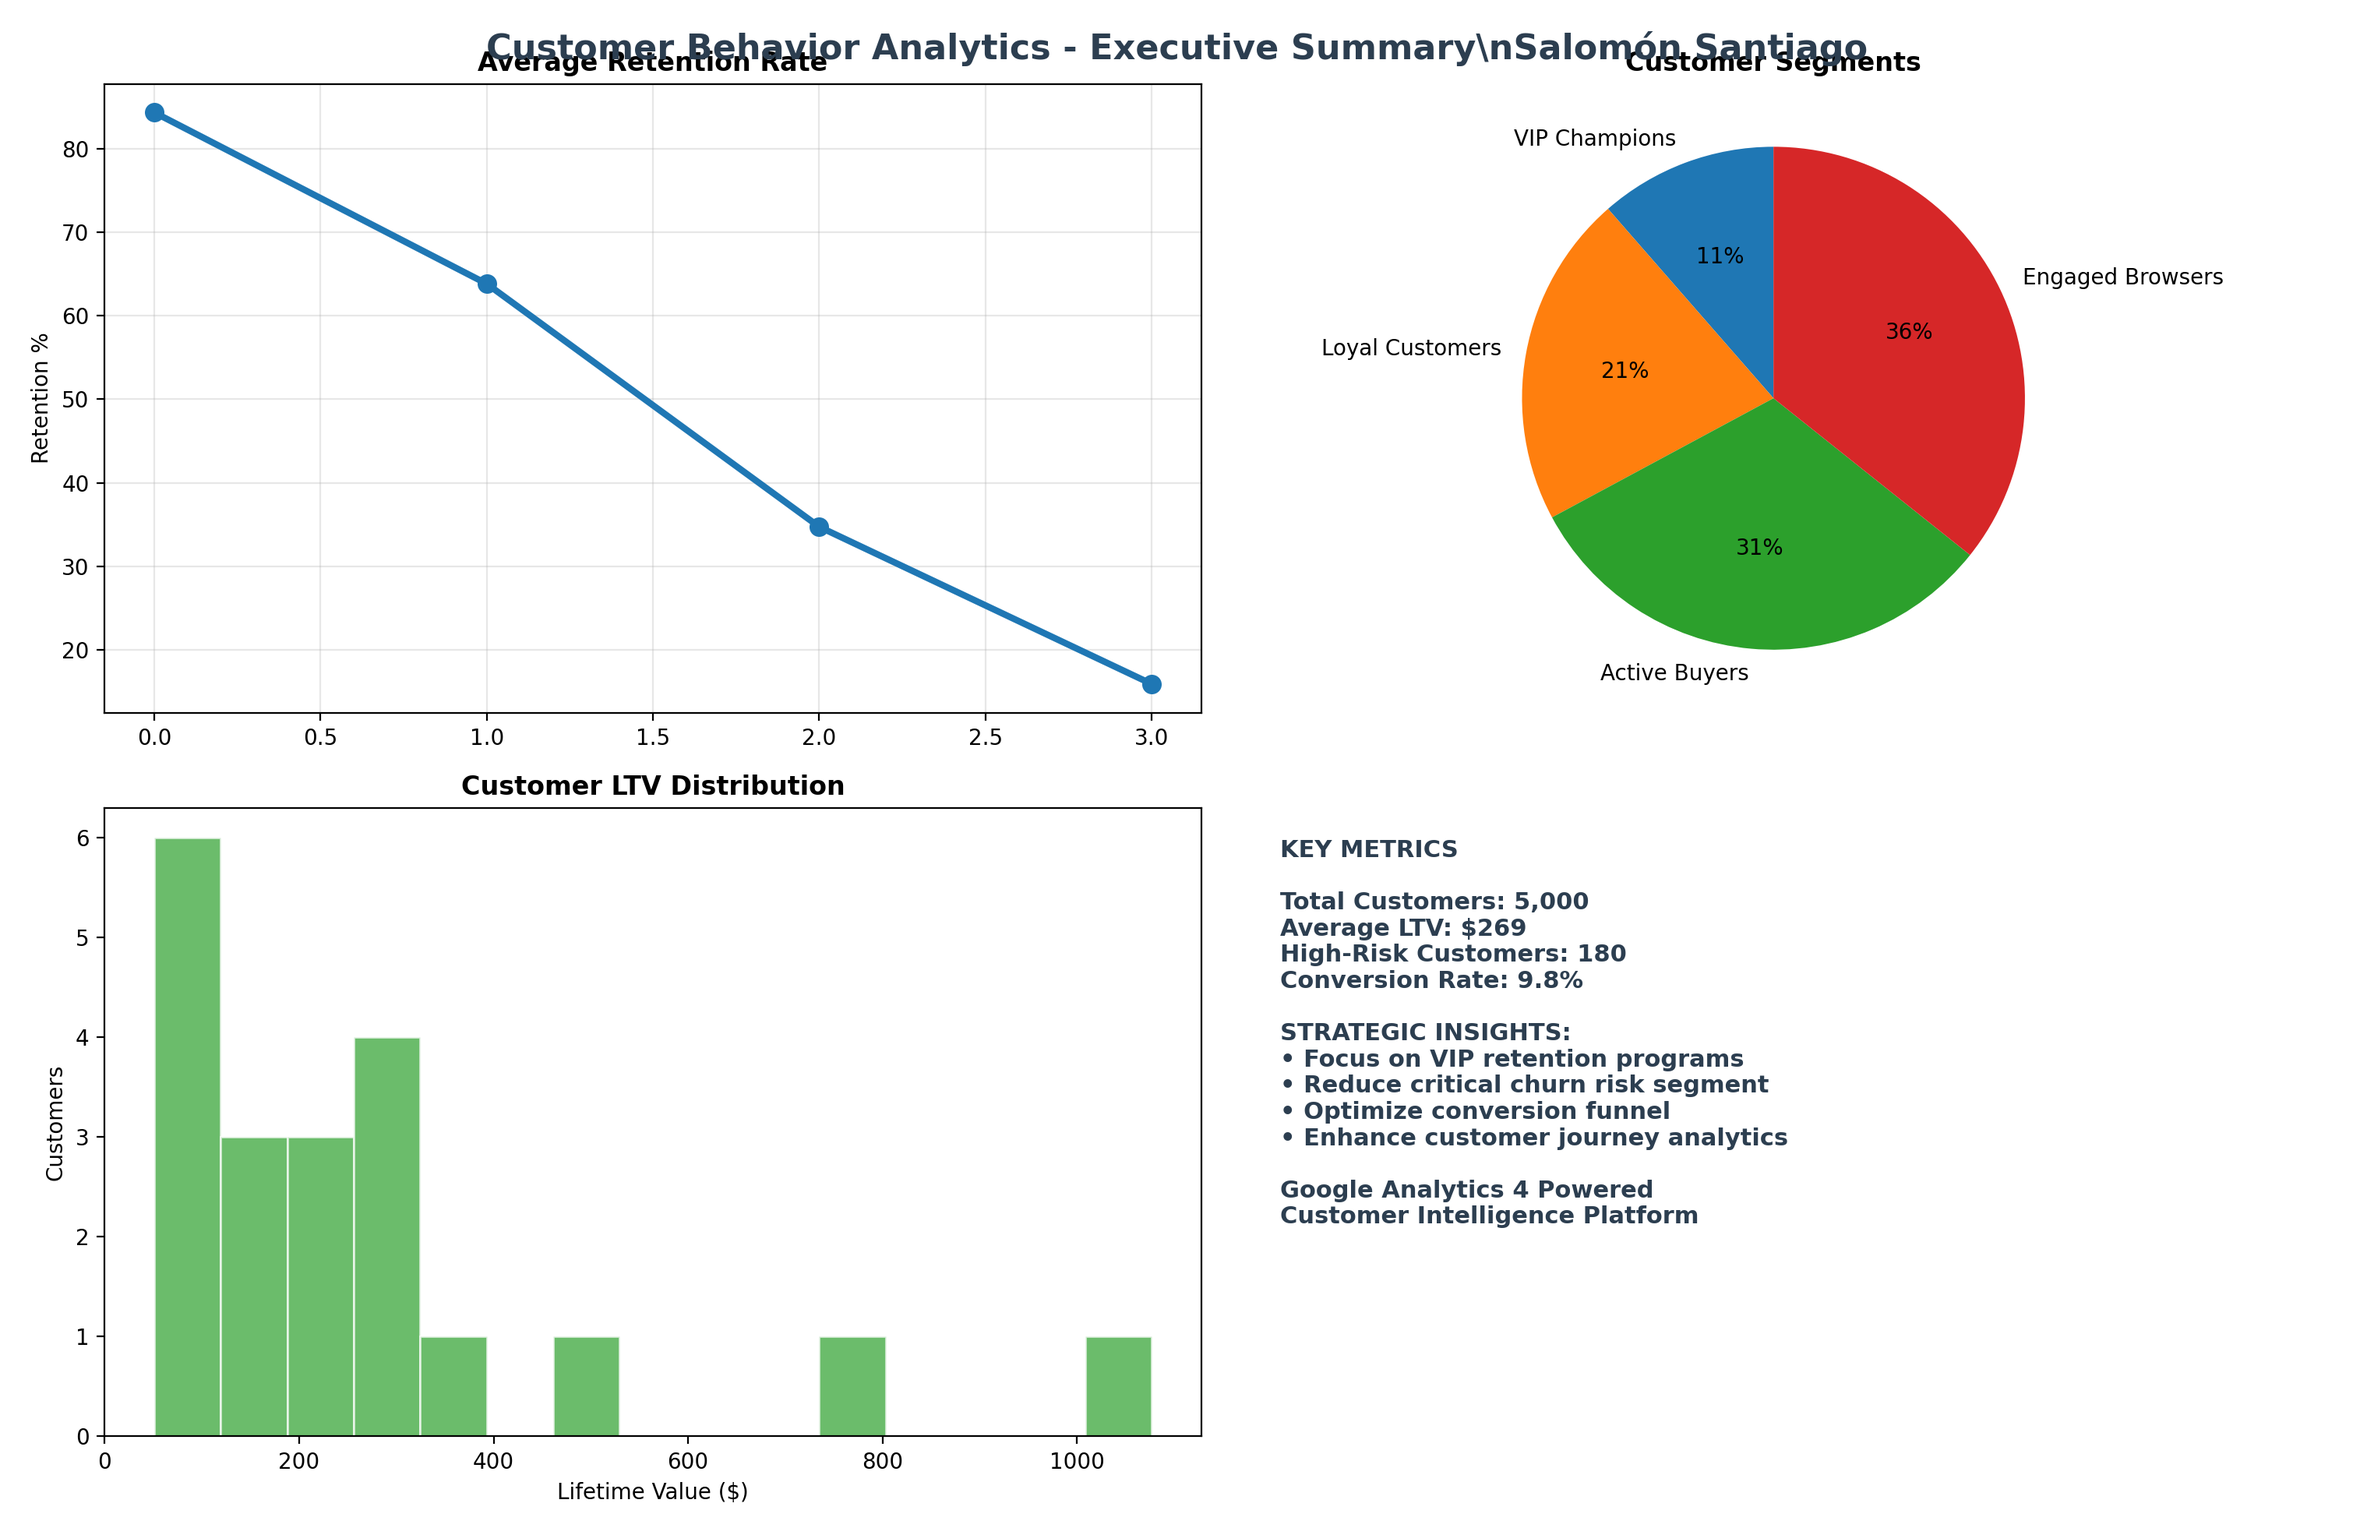
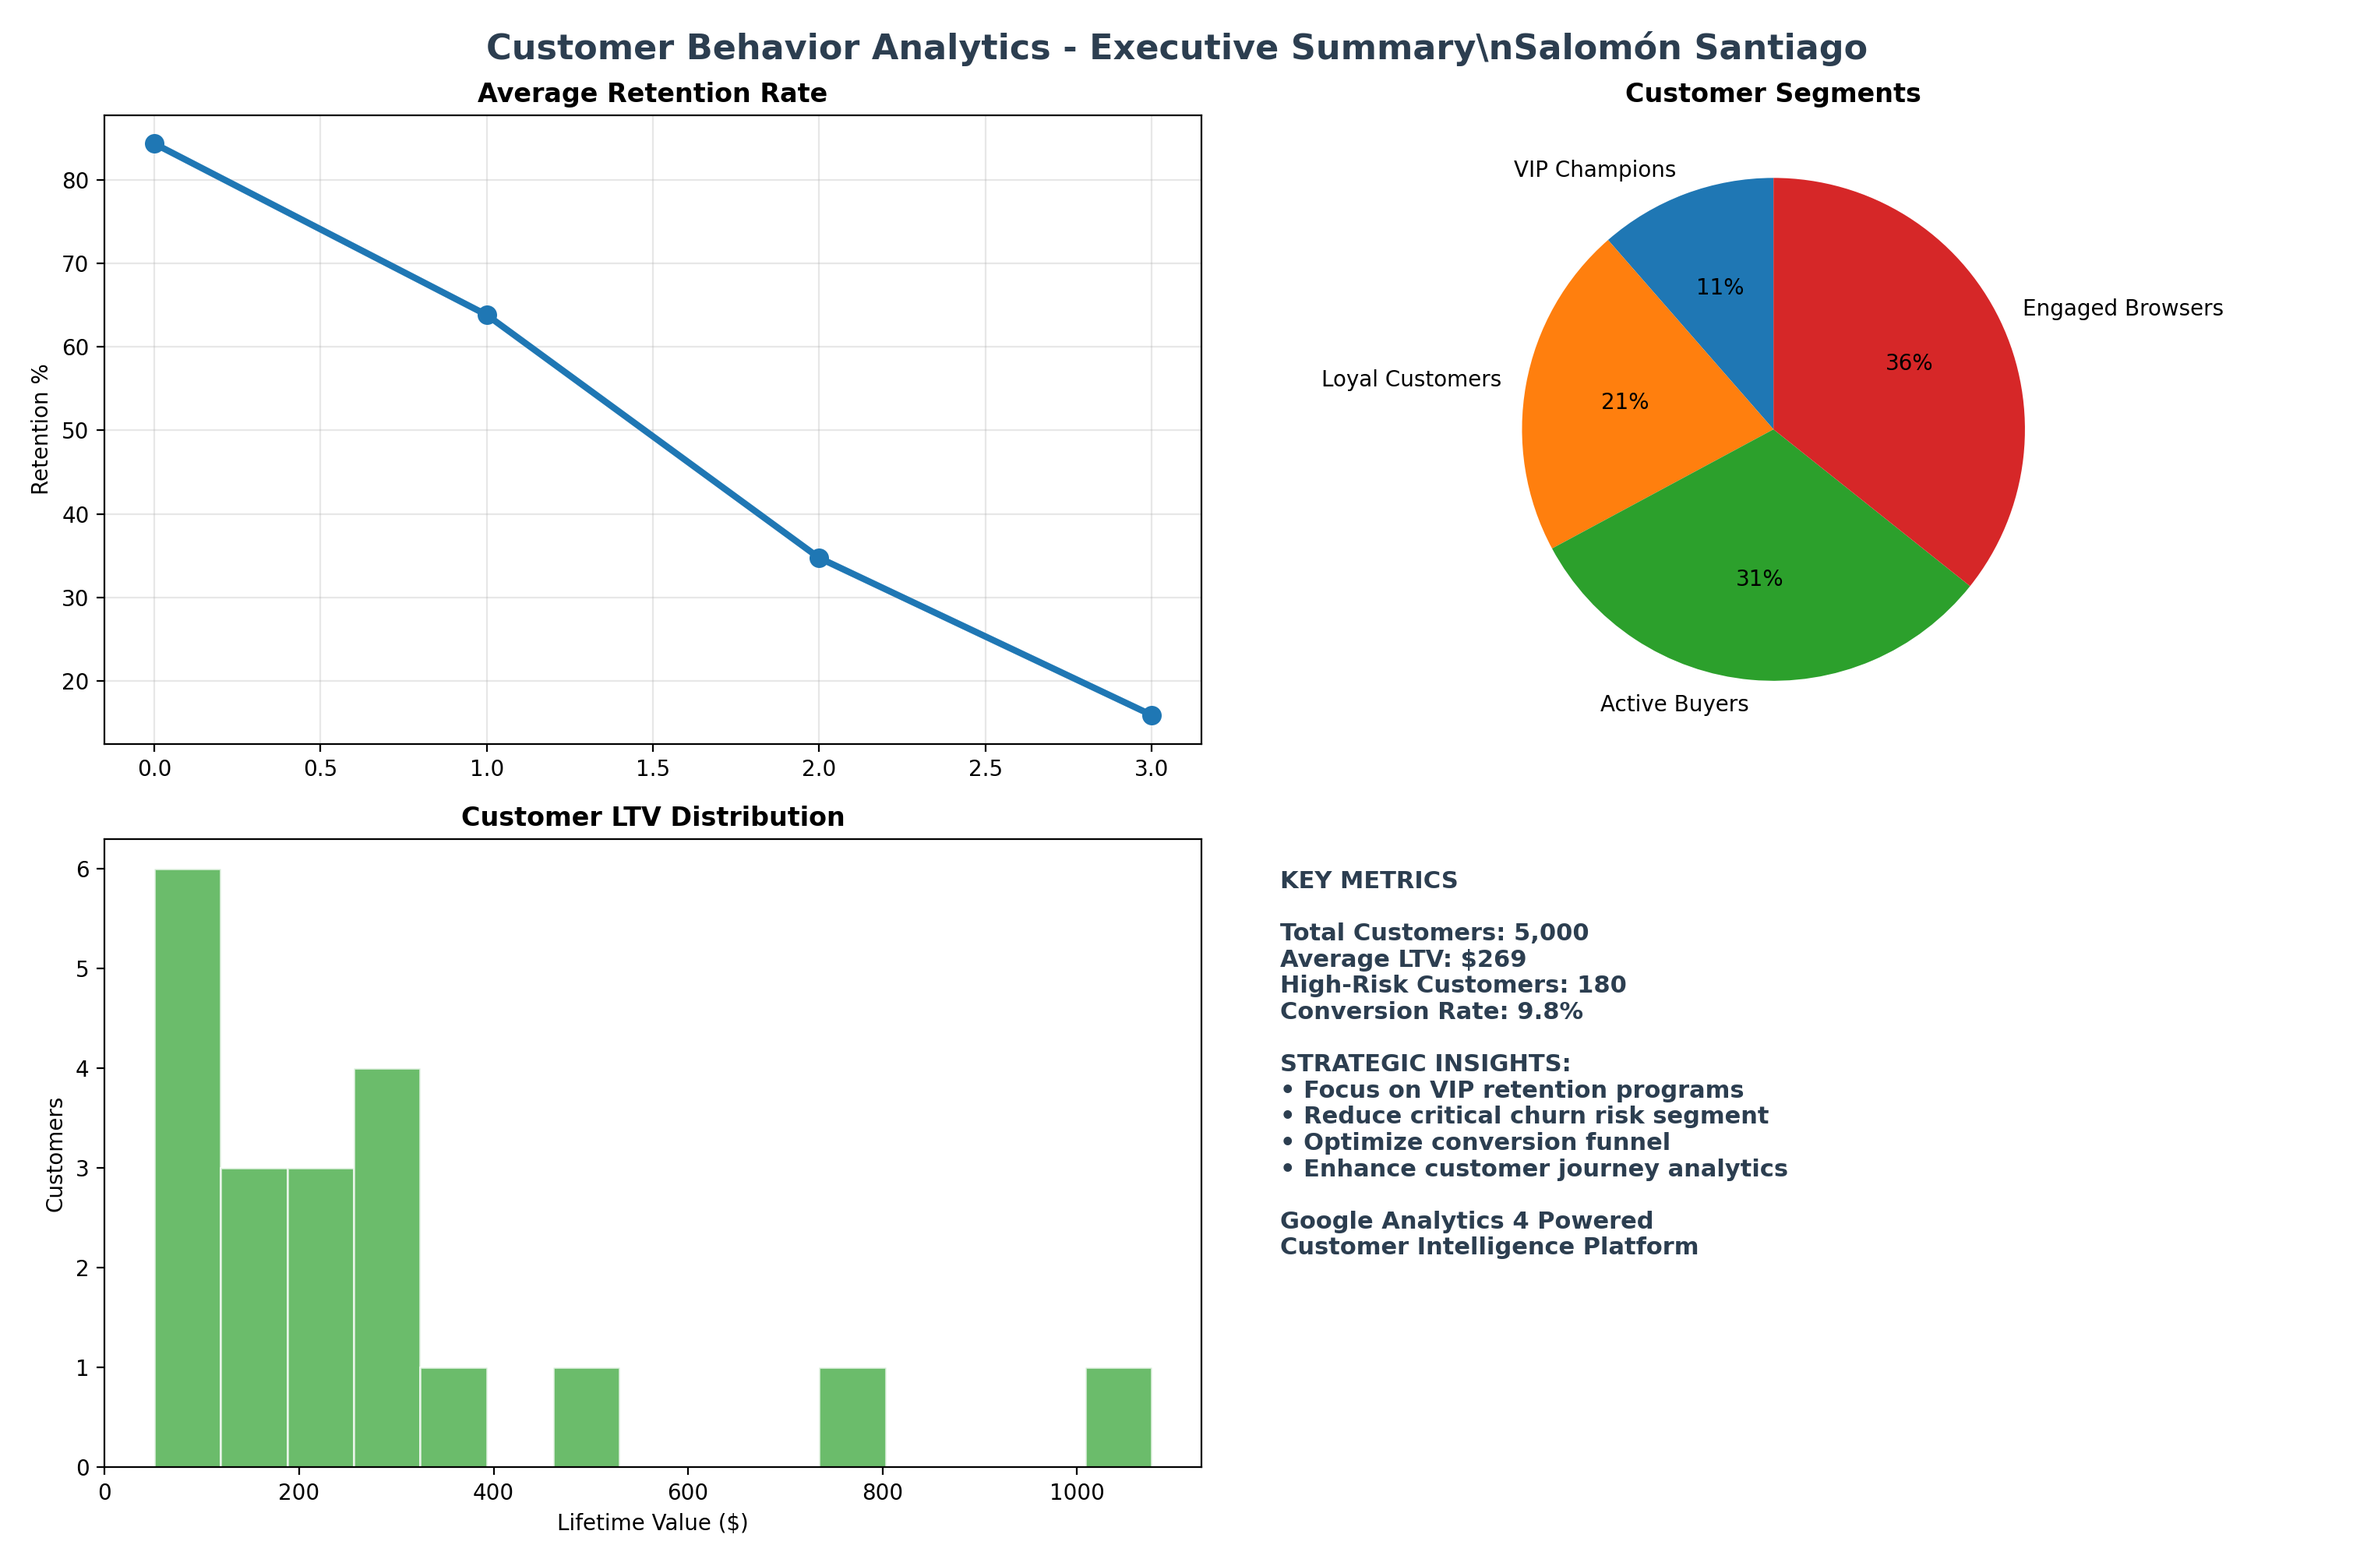
Further improve spacing in Customer Behavior dashboard titles
- Increased main title position to y=0.98 for better placement
- Reduced subplot top margin to 0.80 (from 0.85) for more separation
- Increased hspace to 0.4 for better vertical chart spacing
- Ensures clear visual hierarchy between main title and chart titles

This resolves the remaining title overlap issues in the executive summary.

🤖 Generated with [Claude Code](https://claude.ai/code)

diff --git a/Project-3-Customer-Behavior-Analysis/scripts/create_customer_behavior_dashboard.py b/Project-3-Customer-Behavior-Analysis/scripts/create_customer_behavior_dashboard.py
@@ -307,10 +307,10 @@ class CustomerBehaviorDashboard:
         fig.patch.set_facecolor('white')
         
         fig.suptitle('Customer Behavior Analytics - Executive Summary\\nSalomón Santiago', 
-                     fontsize=16, fontweight='bold', y=0.96, color=self.colors['dark'])
+                     fontsize=16, fontweight='bold', y=0.98, color=self.colors['dark'])
         
-        # Adjust spacing to prevent title overlap
-        plt.subplots_adjust(top=0.85, hspace=0.3, wspace=0.25)
+        # Adjust spacing to prevent title overlap - increase top margin significantly
+        plt.subplots_adjust(top=0.80, hspace=0.4, wspace=0.25)
         
         # Chart 1: Retention trends
         pivot_data = self.retention_df.pivot(index='cohort_month', columns='period', values='retention_rate')
